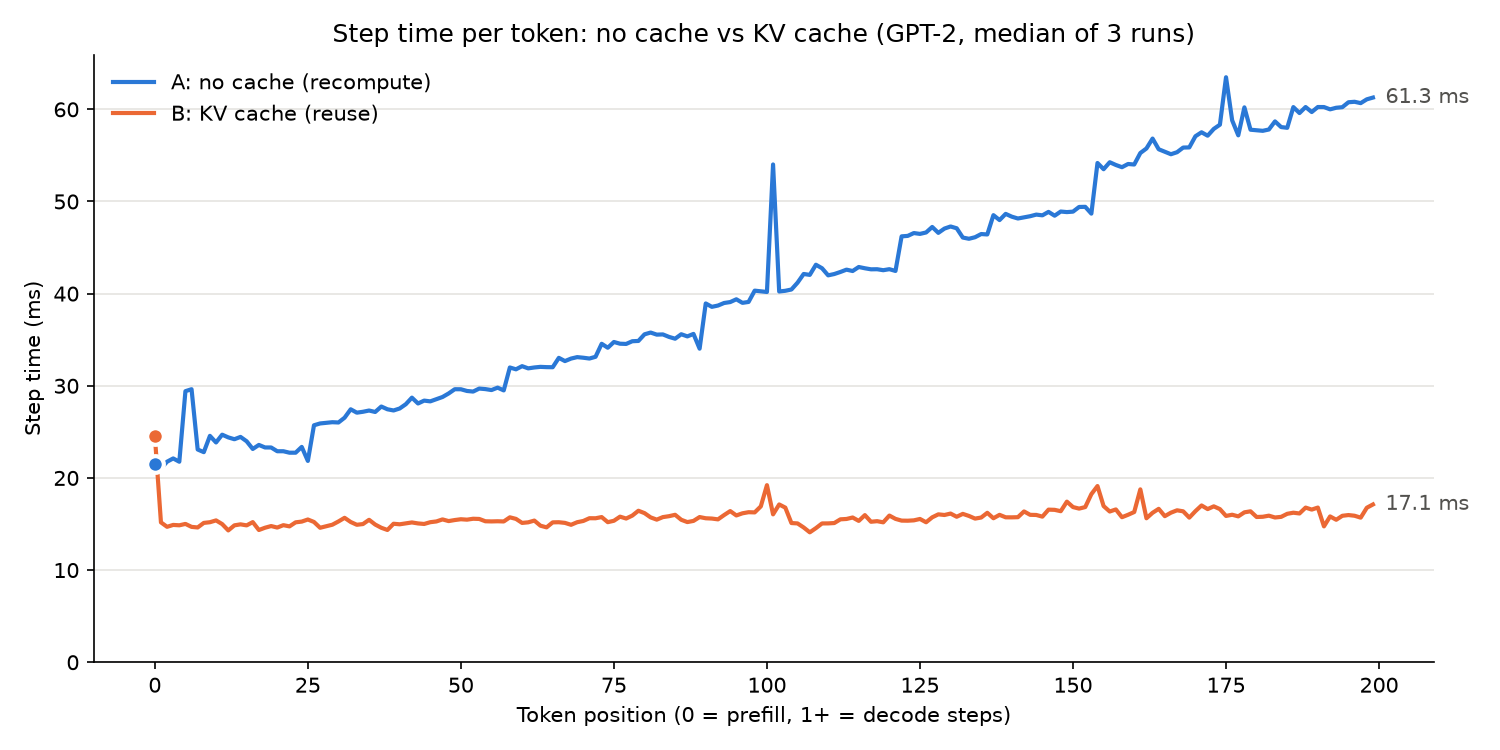
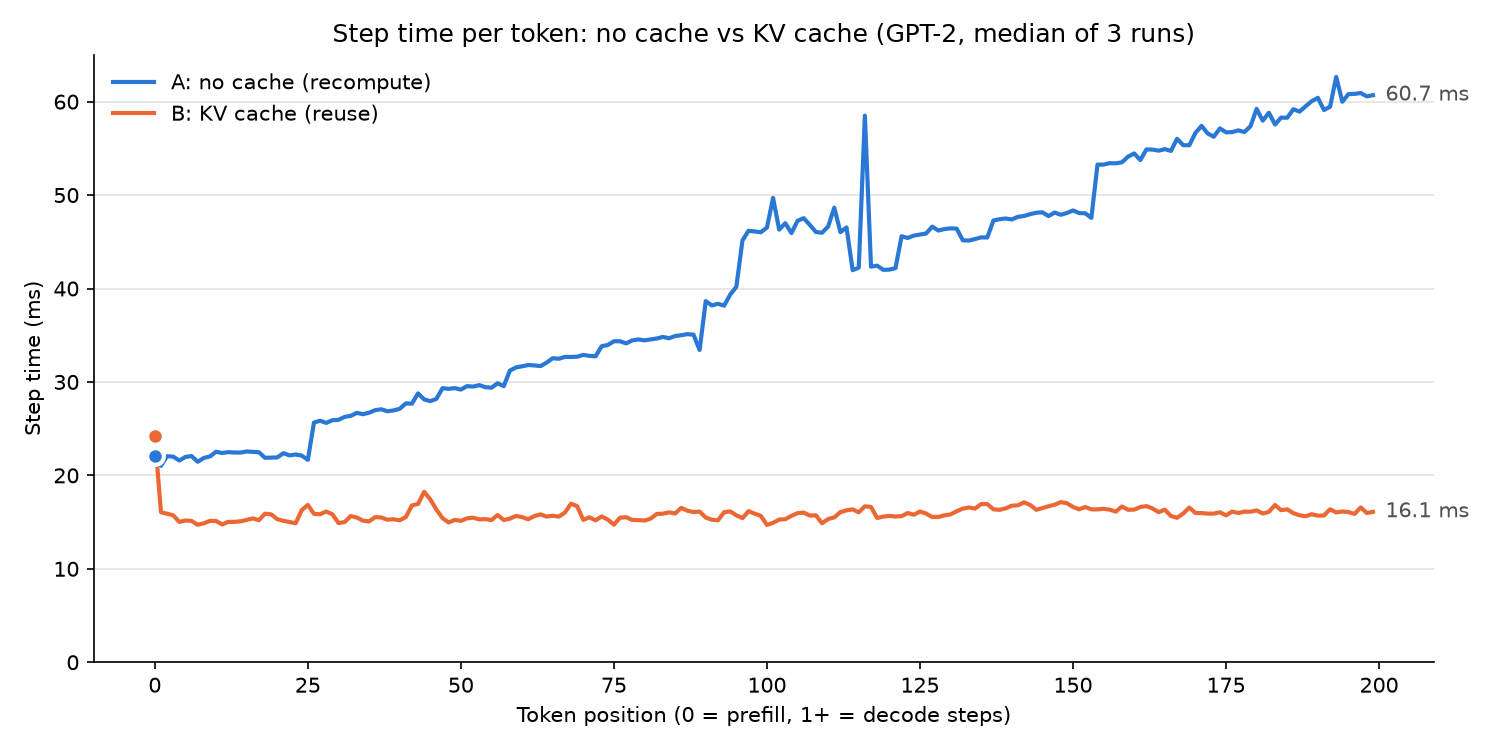
feat(Lab3): measure KV cache size per step and verify against formula

diff --git a/labs/03-kv-cache/kv_cache.py b/labs/03-kv-cache/kv_cache.py
@@ -45,8 +45,8 @@ input_ids=tokenizer.encode(prompt, return_tensors="pt").to(device)
 #so one-off MPS hiccups don't show up as spikes in the curves.
 n_runs=3
 
-#KV cache size, measured: the real bytes the cache occupies right now.
-#Sum over every layer of (key elements + value elements), times bytes per element.
+#KV cache size measured: the real bytes the cache occupies right now.
+#Sum over every layer of (key elements + value elements) times bytes per element.
 def kv_cache_bytes_measured(cache) -> int:
     total_elements=0
     for layer in cache.layers:
@@ -56,19 +56,17 @@ def kv_cache_bytes_measured(cache) -> int:
 
 #KV cache size, from the formula:
 #2 (K and V) x n_layers x n_heads x head_dim x seq_len x bytes
-#and since n_heads x head_dim = d_model, this is 2 x n_layers x d_model x seq_len x bytes
 def kv_cache_bytes_formula(seq_len: int, bytes_per_element: int) -> int:
     n_layers=model.config.n_layer
     n_heads=model.config.n_head
     head_dim=model.config.n_embd // n_heads
     return 2 * n_layers * n_heads * head_dim * seq_len * bytes_per_element
 
-#Both loops run a fixed max_new_tokens (no EOS early stop) so A and B
-#cover the same positions and their curves line up step for step.
+#Both loops run a fixed max_new_tokens so no EOS early stop 
+#A and B cover the same positions and their curves line up step for step.
 
 #Version A: No KV cache
 #Run the autoregressive loop without KV cache
-#Returns (step times in seconds, full token sequence)
 def run_no_cache(max_new_tokens: int,input_ids:torch.Tensor,temperature: float):
     times=[]
     for i in range(max_new_tokens):
@@ -94,9 +92,9 @@ def run_no_cache(max_new_tokens: int,input_ids:torch.Tensor,temperature: float):
 
 #Version B: With KV cache
 #Run the autoregressive loop with KV cache
-#Returns (step times in seconds, full token sequence)
 def run_with_cache(max_new_tokens: int,input_ids:torch.Tensor,temperature: float):
     times=[]
+    kv_sizes=[]
     cache=DynamicCache()
     for i in range(max_new_tokens):
         if(i == 0):
@@ -119,6 +117,9 @@ def run_with_cache(max_new_tokens: int,input_ids:torch.Tensor,temperature: float
         end_time = time.perf_counter()
         times.append(end_time-start_time)
 
+        #Record the cache size after the clock stops so measuring doesn't slow the timing
+        kv_sizes.append((cache.layers[0].keys.shape[2], kv_cache_bytes_measured(cache)))
+
         # Append the new token to the sequence
         input_ids=torch.cat([input_ids, next_token], dim=1)
     print("Cache type:", type(cache))
@@ -138,7 +139,7 @@ def run_with_cache(max_new_tokens: int,input_ids:torch.Tensor,temperature: float
     print(f"Per token: measured {measured/seq_len:,.0f} B ({measured/seq_len/1024:.1f} KB), "
           f"formula {formula/seq_len:,.0f} B")
 
-    return times, input_ids
+    return times, input_ids, kv_sizes
 
 #Warm-up: a few untimed steps of BOTH loops so MPS one-time setup is not counted.
 run_no_cache(max_new_tokens=5, input_ids=input_ids, temperature=temperature)
@@ -148,7 +149,8 @@ run_with_cache(max_new_tokens=5, input_ids=input_ids, temperature=temperature)
 runs_A, runs_B = [], []
 for r in range(n_runs):
     t_A, ids_A = run_no_cache(max_new_tokens=max_new_tokens, input_ids=input_ids, temperature=temperature)
-    t_B, ids_B = run_with_cache(max_new_tokens=max_new_tokens, input_ids=input_ids, temperature=temperature)
+    #kv_B: cache size is deterministic (same every run), so keeping the last run's log is enough
+    t_B, ids_B, kv_B = run_with_cache(max_new_tokens=max_new_tokens, input_ids=input_ids, temperature=temperature)
     runs_A.append(t_A)
     runs_B.append(t_B)
     print(f"Run {r+1}/{n_runs} done")
@@ -199,4 +201,42 @@ ax.legend(frameon=False, loc="upper left")
 fig.tight_layout()
 (Path(__file__).parent / "results").mkdir(exist_ok=True)
 fig.savefig(Path(__file__).parent / "results" / "step_time_cache_vs_no_cache.png", dpi=150)
+
+
+#Plot KV cache size (y) vs tokens in cache (x): measured from the tensors vs the formula
+kv_tokens=np.array([t for t, _ in kv_B])
+kv_measured_mb=np.array([b for _, b in kv_B]) / 1e6
+bytes_per_element=next(model.parameters()).element_size()
+#Draw the formula from 0 tokens so you can see it's a straight line through the origin
+formula_tokens=np.arange(0, kv_tokens[-1] + 1)
+kv_formula_mb=np.array([kv_cache_bytes_formula(t, bytes_per_element) for t in formula_tokens]) / 1e6
+
+fig2, ax2=plt.subplots(figsize=(10, 5))
+
+
+ax2.plot(formula_tokens, kv_formula_mb, color="#8a8984", linewidth=2, linestyle="--", zorder=4,
+         label=f"Formula: 2 × {model.config.n_layer} layers × {model.config.n_embd} × {bytes_per_element} B × tokens")
+ax2.plot(kv_tokens, kv_measured_mb, color="#2a78d6", linewidth=2,
+         label="Measured: sum of K and V tensor bytes")
+#Mark the first point: the cache right after prefill already holds the whole prompt
+ax2.scatter([kv_tokens[0]], [kv_measured_mb[0]], color="#2a78d6", s=64, zorder=3,
+            edgecolor="white", linewidth=2)
+ax2.annotate(f"After prefill: {kv_tokens[0]} tokens, {kv_measured_mb[0]:.1f} MB",
+             (kv_tokens[0], kv_measured_mb[0]), xytext=(10, -14),
+             textcoords="offset points", color="#52514e")
+ax2.annotate(f"{kv_tokens[-1]} tokens, {kv_measured_mb[-1]:.1f} MB",
+             (kv_tokens[-1], kv_measured_mb[-1]), xytext=(-6, 8),
+             textcoords="offset points", ha="right", color="#52514e")
+
+ax2.set_title("KV cache size as the sequence grows (GPT-2)")
+ax2.set_xlabel("Tokens in cache (prompt + generated)")
+ax2.set_ylabel("KV cache size (MB)")
+ax2.set_xlim(left=0)
+ax2.set_ylim(bottom=0)
+ax2.grid(axis="y", color="#e5e4e0", linewidth=0.8)
+ax2.spines[["top", "right"]].set_visible(False)
+ax2.legend(frameon=False, loc="upper left")
+
+fig2.tight_layout()
+fig2.savefig(Path(__file__).parent / "results" / "kv_cache_size.png", dpi=150)
 plt.show()
